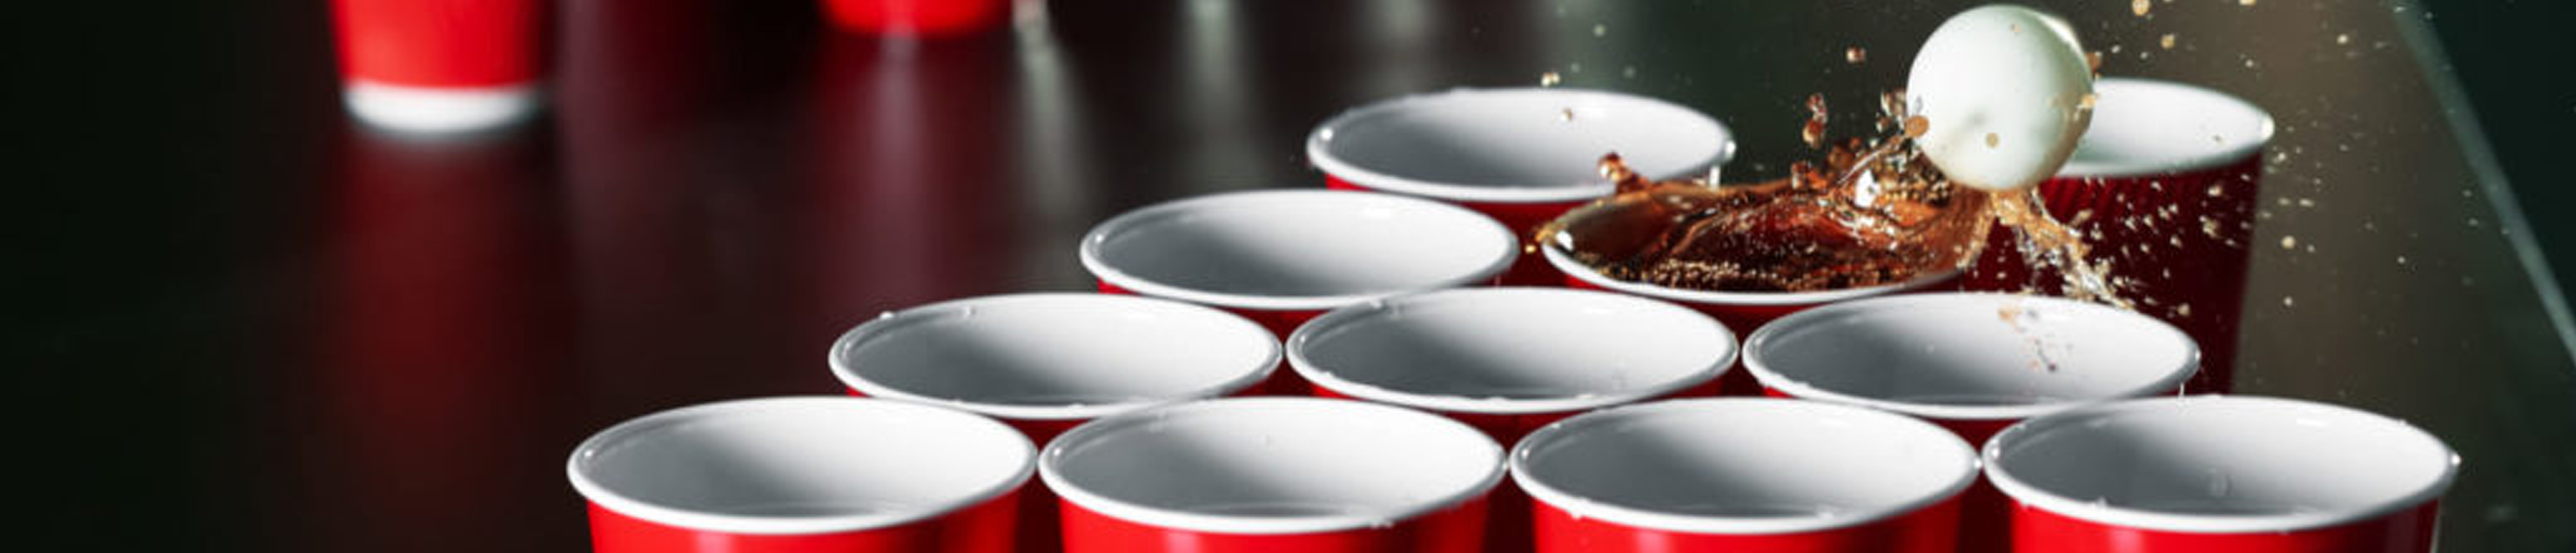
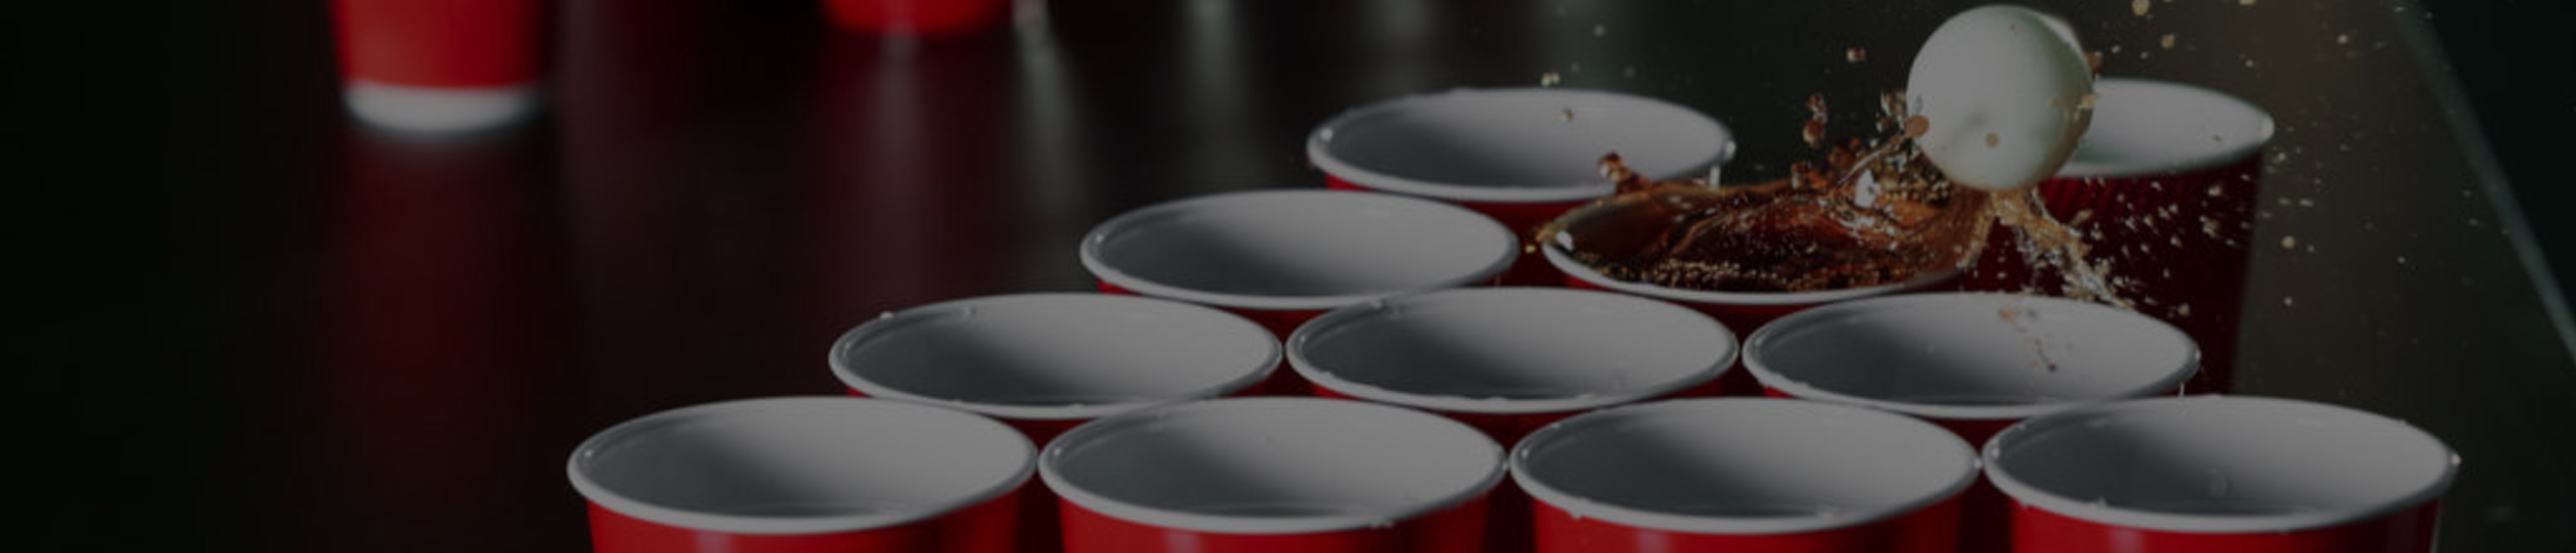
team generator +added Alert if Playercount < 2

diff --git a/assets/functions.js b/assets/functions.js
@@ -129,7 +129,7 @@ function gatherTeam() {
     var playerName = document.getElementById("generator_playerName").value;
 
     //Falls der User keinen Namen eingegeben hat soll nichts passieren.
-    if(playerName != "") {
+    if(playerName !== "") {
         //Ansonsten:
         //Erweitern der zu füllenden Liste um neues Listenelement
         ul.appendChild(li);
@@ -150,47 +150,55 @@ function generateTeams() {
     //Variable der zu füllenden Liste für TeamB
     let ulTeamB = document.getElementById("generator_teamB");
 
-    //Moderne Version des Fisher–Yates shuffle
-    //Mischt das Array aus Spielernamen
-    function shuffle(a) {
-        for (let i = a.length - 1; i > 0; i--) {
-            const j = Math.floor(Math.random() * (i + 1));
-            [a[i], a[j]] = [a[j], a[i]];
+    //Generieren von Teams macht erst ab 2 oder mehr Spielern Sinn
+    if(arr.length >= 2) {
+        //Moderne Version des Fisher–Yates shuffle
+        //Mischt das Array aus Spielernamen
+        function shuffle(a) {
+            for (let i = a.length - 1; i > 0; i--) {
+                const j = Math.floor(Math.random() * (i + 1));
+                [a[i], a[j]] = [a[j], a[i]];
+            }
+            return a; //Gibt das gemischte Array zurück
         }
-        return a; //Gibt das gemischte Array zurück
+
+        //Aufruf der Misch Funktion
+        shuffle(arr);
+        //Neues Array teamA wird mit dem Inhalt des gemischten Arrays (Inhalt von Stelle [0] bis zum Mittelpunkt) befüllt
+        let teamA = arr.splice(0, middleIndex);
+        //Neues Array teamB wird mit dem Inhalt des gemischten Arrays (ab dem Mittelpunkt) befüllt
+        let teamB = arr.splice(-middleIndex);
+
+        //Für jede Stelle des Arrays von teamA
+        for (let i=0; i<teamA.length; i++) {
+            //Wird ein neues Listenelement erstellt
+            let liTeamA = document.createElement("li");
+            //Und der zu befüllenden Liste für TeamA angefügt
+            ulTeamA.appendChild(liTeamA);
+            //Das innerHTML, also der Teil des Listenelements der für den Nutzer angezeigt wird bekommt den Wert, welcher an der entsprechenden Stelle im Array steht (bspw. Spieler1)
+            liTeamA.innerHTML = teamA[i];
+        }
+
+        //Für jede Stelle des Arrays von teamB
+        for (let j=0; j<teamB.length; j++) {
+            //Wird ein neues Listenelement erstellt
+            let liTeamB = document.createElement("li");
+            //Und der zu befüllenden Liste für TeamB angefügt
+            ulTeamB.appendChild(liTeamB);
+            //Das innerHTML, also der Teil des Listenelements der für den Nutzer angezeigt wird bekommt den Wert, welcher an der entsprechenden Stelle im Array steht (bspw. Spieler1)
+            liTeamB.innerHTML = teamB[j];
+        }
+
+        //Die Eingabe der Spielername in der Turniergenerator Card wird ausgeblendet
+        document.getElementById("generator_1").hidden=true;
+        //Die Anzeige der beiden generierten Teams wird eingeblendet
+        document.getElementById("generator_2").hidden=false;
+    } else {
+        //Spieleranzahl < 2: Fehlermeldung wird angezeigt - "Du brauchst mindestens 2 Spieler!"
+        document.getElementById("generator_alert_fail").hidden=false;
     }
 
-    //Aufruf der Misch Funktion
-    shuffle(arr);
-    //Neues Array teamA wird mit dem Inhalt des gemischten Arrays (Inhalt von Stelle [0] bis zum Mittelpunkt) befüllt
-    let teamA = arr.splice(0, middleIndex);
-    //Neues Array teamB wird mit dem Inhalt des gemischten Arrays (ab dem Mittelpunkt) befüllt
-    let teamB = arr.splice(-middleIndex);
 
-    //Für jede Stelle des Arrays von teamA
-    for (let i=0; i<teamA.length; i++) {
-       //Wird ein neues Listenelement erstellt
-        let liTeamA = document.createElement("li");
-        //Und der zu befüllenden Liste für TeamA angefügt
-        ulTeamA.appendChild(liTeamA);
-        //Das innerHTML, also der Teil des Listenelements der für den Nutzer angezeigt wird bekommt den Wert, welcher an der entsprechenden Stelle im Array steht (bspw. Spieler1)
-        liTeamA.innerHTML = teamA[i];
-    }
-
-    //Für jede Stelle des Arrays von teamB
-    for (let j=0; j<teamB.length; j++) {
-        //Wird ein neues Listenelement erstellt
-        let liTeamB = document.createElement("li");
-        //Und der zu befüllenden Liste für TeamB angefügt
-        ulTeamB.appendChild(liTeamB);
-        //Das innerHTML, also der Teil des Listenelements der für den Nutzer angezeigt wird bekommt den Wert, welcher an der entsprechenden Stelle im Array steht (bspw. Spieler1)
-        liTeamB.innerHTML = teamB[j];
-    }
-
-    //Die Eingabe der Spielername in der Turniergenerator Card wird ausgeblendet
-    document.getElementById("generator_1").hidden=true;
-    //Die Anzeige der beiden generierten Teams wird eingeblendet
-    document.getElementById("generator_2").hidden=false;
 }
 
 function resetTeams() {
@@ -204,5 +212,10 @@ function resetTeams() {
     document.getElementById("generator_teamA").innerHTML="";
     //Der Inhalt der Liste des generierten Teams B wird gelöscht
     document.getElementById("generator_teamB").innerHTML="";
+}
+
+function hideGeneratorAlert() {
+    //Ggf. vorhandene Fehlermeldung wir mit Klick in Feld für Spielername (im Moment der Fehlerkorrektur) ausgeblendet
+    document.getElementById("generator_alert_fail").hidden=true;
 }
 //--> Ende Team Generator

diff --git a/pages/backend.html b/pages/backend.html
@@ -27,7 +27,7 @@
     <link rel="stylesheet" href="../assets/mobirise/css/mbr-additional.css" type="text/css">
 
 </head>
-<body onload="checkLoggedIn()">
+<body id="dashboard_body" onload="checkLoggedIn()">
 
 <div class="row">
     <div class="col-1 bg-primary">
@@ -172,12 +172,12 @@
                                 <img src="../assets/images/card_header_3.jpg" class="card-img-top" alt="...">
                                 <div class="card-body">
                                     <h5 class="card-title">Team Generator</h5>
-                                    <p class="card-text">Erstelle schnell und einfach, zufällig zusammengesetzte Teams.</p>
+                                    <p class="card-text">Erstelle schnell und einfach deine zufällig zusammengesetzten Teams.</p>
                                     <div class="row" id="generator_1">
                                         <div class="col-6">
                                             <div data-for="text" class="input-group mb-3">
                                                 <div class="form-floating text-black">
-                                                    <input type="text" name="generator_playerName" placeholder="Turniername" data-form-field="text" class="form-control" value="" id="generator_playerName" required>
+                                                    <input onclick="hideGeneratorAlert()" type="text" name="generator_playerName" placeholder="Turniername" data-form-field="text" class="form-control" value="" id="generator_playerName" required>
                                                     <label class="text-black" for="create_tour_name">Spielername</label>
                                                 </div>
                                                 <button class="btn btn-outline-secondary mt-0" type="submit" id="generator_playerAdd" style="height: calc(3.5rem + 2px);" onclick="gatherTeam()">Hinzufügen</button>
@@ -186,6 +186,9 @@
                                             <button class="btn-sm btn-primary" type="button" id="generator_generateTeam" onclick="generateTeams()">Generieren</button>
                                         </div>
                                         <div class="col-6">
+                                            <div id="generator_alert_fail" hidden="hidden" data-form-alert-danger="" class="alert align-text-top alert-danger p-3" style="height: calc(3.5rem + 2px)">
+                                                Du brauchst mindestens 2 Spieler!
+                                            </div>
                                             <ul id="generator_playerList">
                                             </ul>
                                         </div>
@@ -193,7 +196,7 @@
                                     <div class="row" id="generator_2" hidden>
                                         <div class="col-6">
                                             <div class="card text-white bg-primary mb-3">
-                                                <div class="card-header">Team A</div>
+                                                <div class="card-header fw-bold">Team A</div>
                                                 <div class="card-body">
                                                     <ul id="generator_teamA">
                                                     </ul>
@@ -203,7 +206,7 @@
                                         </div>
                                         <div class="col-6">
                                             <div class="card text-white bg-info mb-3">
-                                                <div class="card-header">Team B</div>
+                                                <div class="card-header fw-bold">Team B</div>
                                                 <div class="card-body">
                                                     <ul id="generator_teamB">
                                                     </ul>

diff --git a/assets/styles.css b/assets/styles.css
@@ -79,3 +79,7 @@
 #create_tour {
     width: auto!important;
 }
+
+#dashboard_body {
+    background-image: url("../assets/images/dashboard_bg.jpg");
+}
